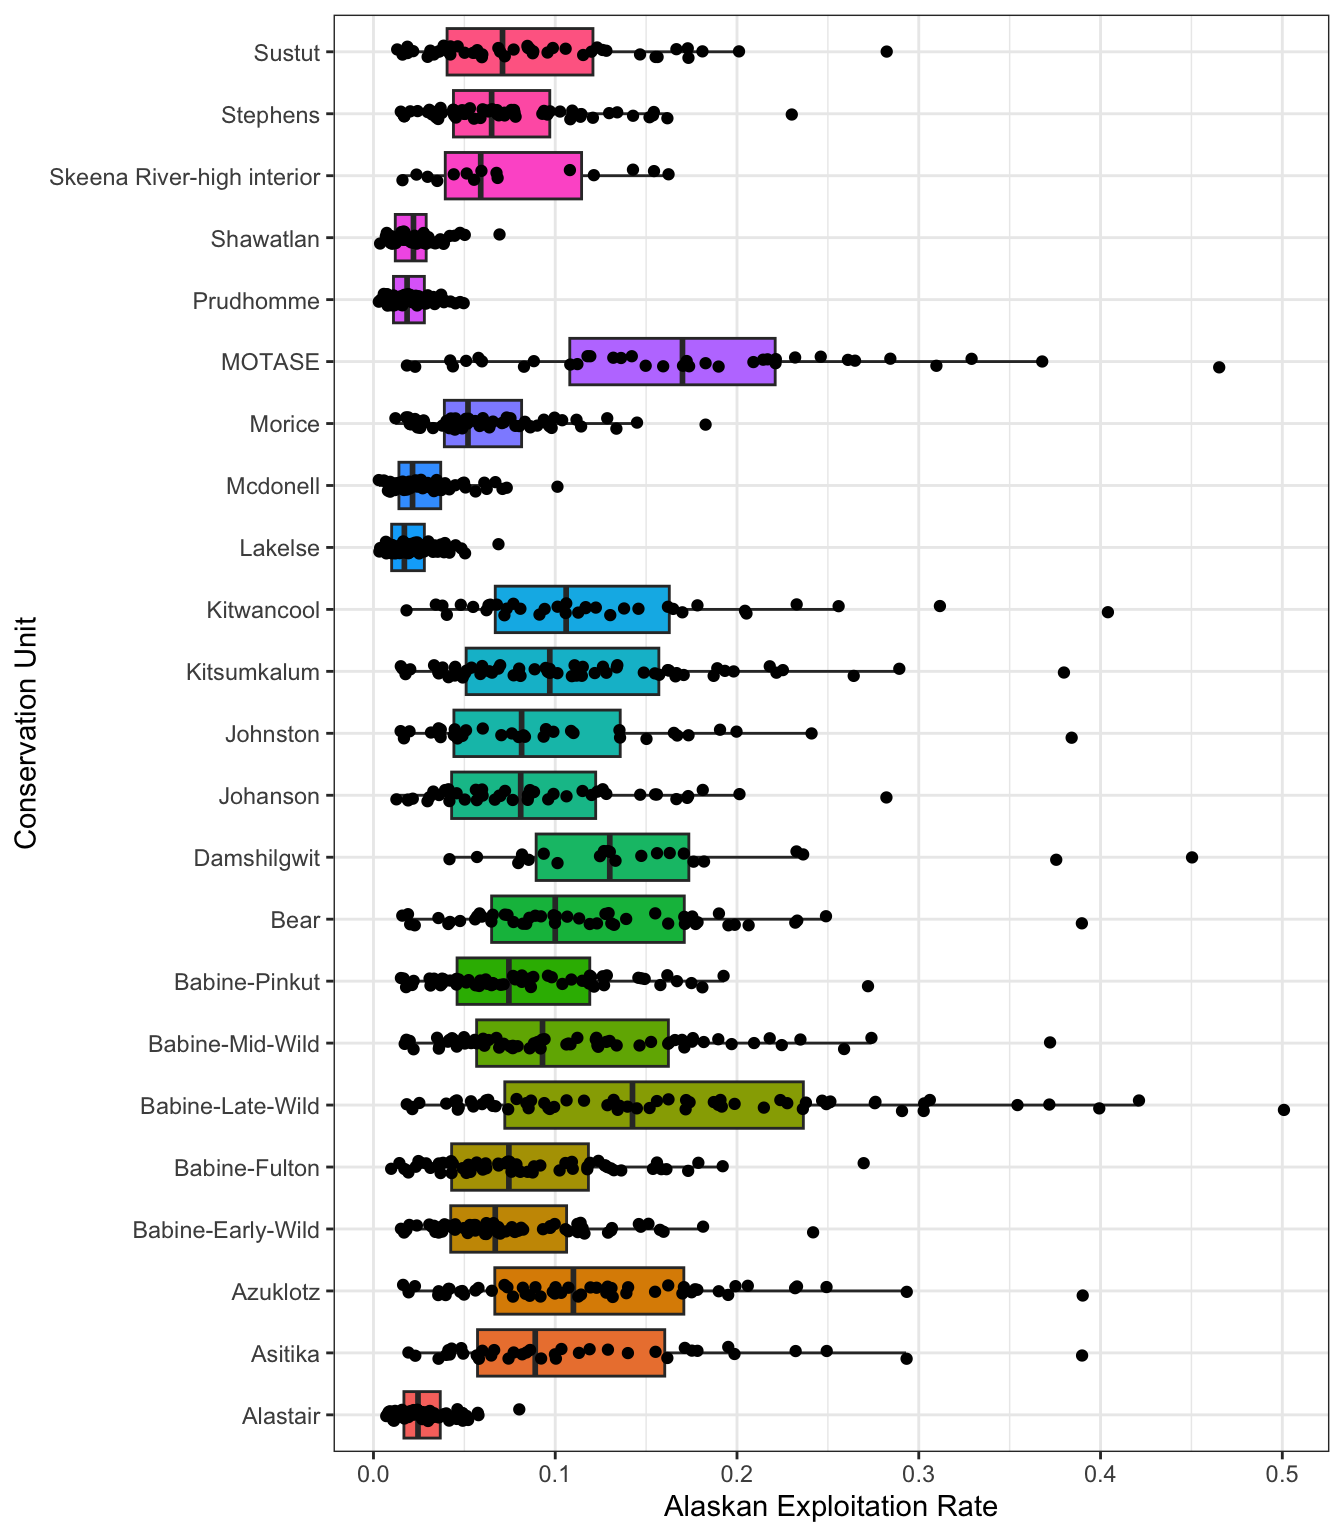
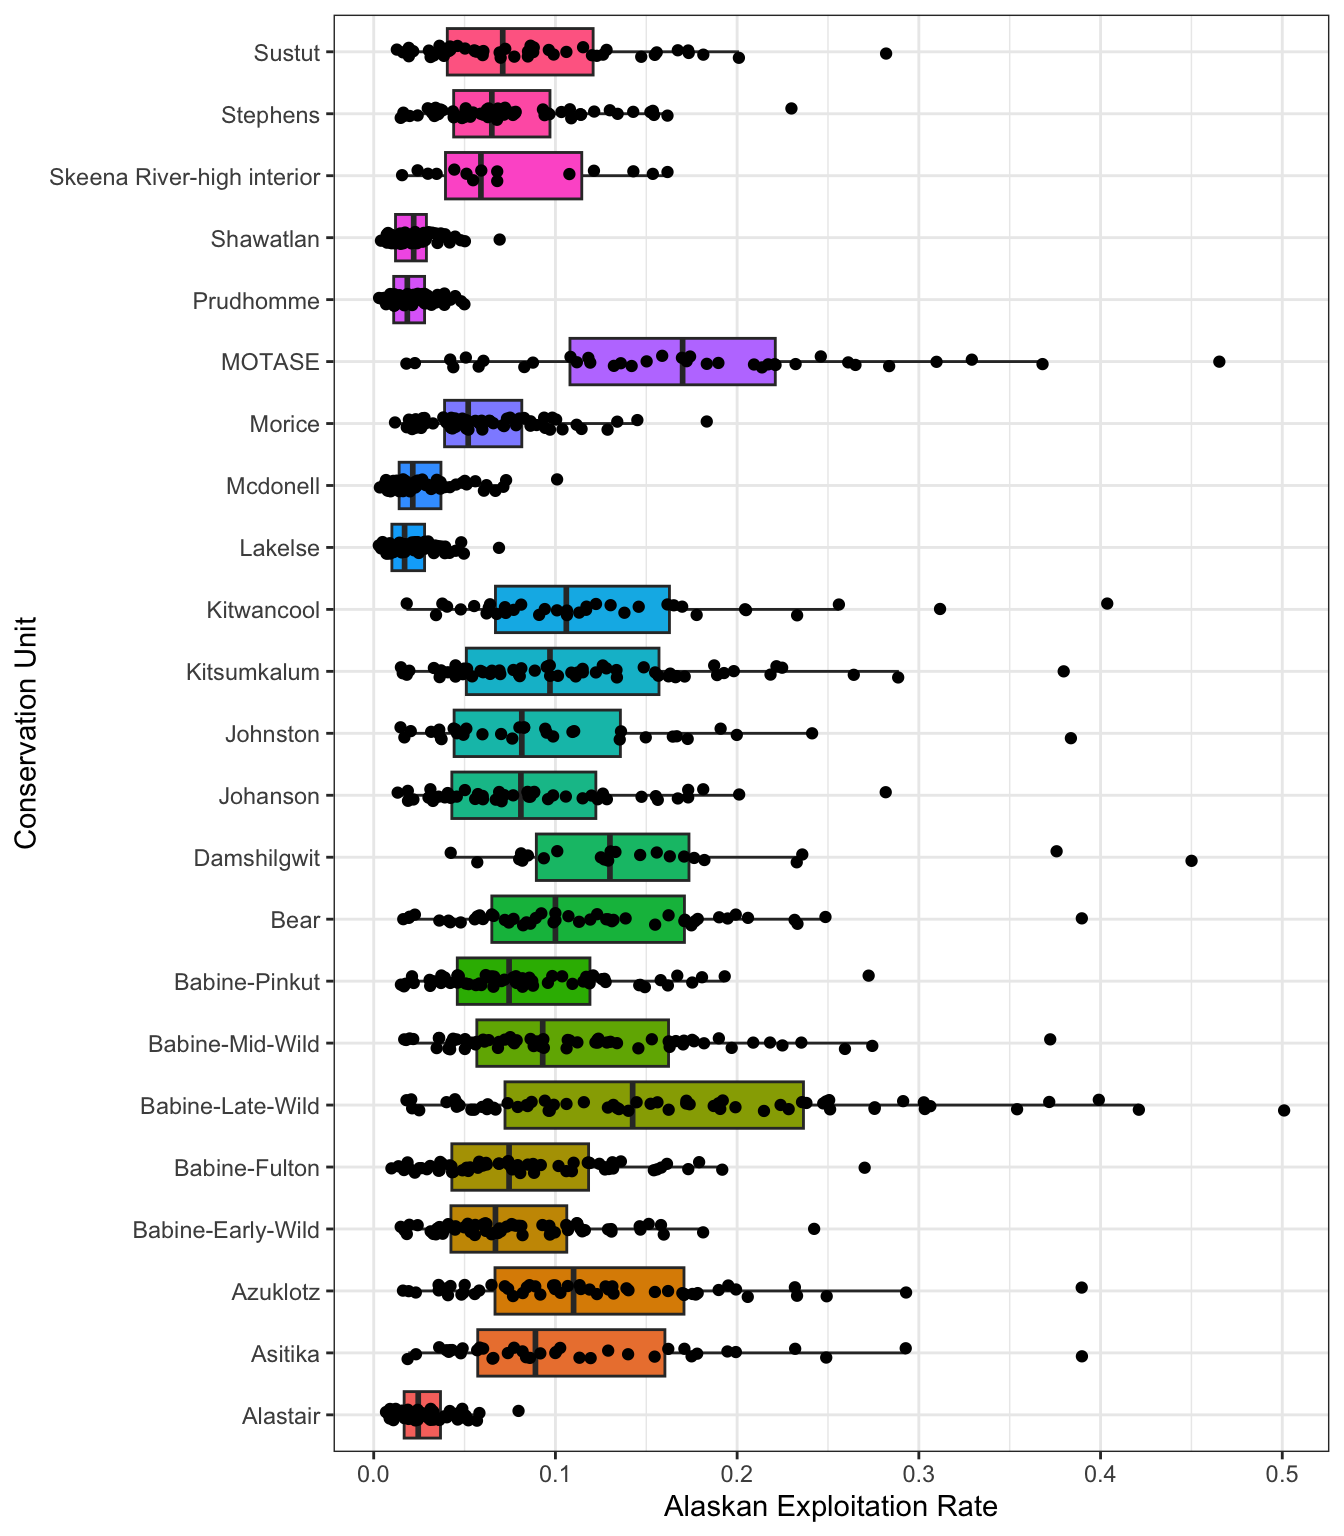
add last TBR figures

diff --git a/docs/SEAK-summary.html b/docs/SEAK-summary.html
@@ -130,10 +130,7 @@ ul.task-list li input[type="checkbox"] {
   <li><a href="#chum" id="toc-chum" class="nav-link" data-scroll-target="#chum">Chum</a></li>
   <li><a href="#pink" id="toc-pink" class="nav-link" data-scroll-target="#pink">Pink</a></li>
   <li><a href="#transboundary" id="toc-transboundary" class="nav-link" data-scroll-target="#transboundary">Transboundary</a></li>
-  <li><a href="#steelhead" id="toc-steelhead" class="nav-link" data-scroll-target="#steelhead">Steelhead</a>
-  <ul class="collapse">
-  <li><a href="#appendix-1-pacific-salmon-commission-chinook-technical-committee-mortality-distribution-tables" id="toc-appendix-1-pacific-salmon-commission-chinook-technical-committee-mortality-distribution-tables" class="nav-link" data-scroll-target="#appendix-1-pacific-salmon-commission-chinook-technical-committee-mortality-distribution-tables">Appendix 1: Pacific Salmon Commission Chinook Technical Committee Mortality Distribution Tables</a></li>
-  </ul></li>
+  <li><a href="#steelhead" id="toc-steelhead" class="nav-link" data-scroll-target="#steelhead">Steelhead</a></li>
   </ul>
 </nav>
     </div>
@@ -978,13 +975,13 @@ Figure&nbsp;55: US catch, effort, and CPUE for Alsek River Coho, Pink, and Chum 
 </div>
 <div class="cell">
 <div class="cell-output-display">
-<div id="fig-total-er-cn" class="quarto-float quarto-figure quarto-figure-center anchored">
+<div id="fig-stikine-sx" class="quarto-float quarto-figure quarto-figure-center anchored">
 <figure class="quarto-float quarto-float-fig figure">
-<div aria-describedby="fig-total-er-cn-caption-0ceaefa1-69ba-4598-a22c-09a6ac19f8ca">
-<img src="SEAK-summary_files/figure-html/fig-total-er-cn-1.png" class="img-fluid figure-img" width="672">
+<div aria-describedby="fig-stikine-sx-caption-0ceaefa1-69ba-4598-a22c-09a6ac19f8ca">
+<img src="SEAK-summary_files/figure-html/fig-stikine-sx-1.png" class="img-fluid figure-img" width="672">
 </div>
-<figcaption class="quarto-float-caption-bottom quarto-float-caption quarto-float-fig" id="fig-total-er-cn-caption-0ceaefa1-69ba-4598-a22c-09a6ac19f8ca">
-Figure&nbsp;56: Canadian and US total exploitation rate for Taku and Stikine Chinook salmon, 1979-2019
+<figcaption class="quarto-float-caption-bottom quarto-float-caption quarto-float-fig" id="fig-stikine-sx-caption-0ceaefa1-69ba-4598-a22c-09a6ac19f8ca">
+Figure&nbsp;56: Stikine River Sockeye salmon Canadian harvest, US harvest, and escapement (top panel), Canadian vs US harvest (middle panel), and Canadian and US percent of total harvest (bottom panel), 1979-2023.
 </figcaption>
 </figure>
 </div>
@@ -992,13 +989,13 @@ Figure&nbsp;56: Canadian and US total exploitation rate for Taku and Stikine Chi
 </div>
 <div class="cell">
 <div class="cell-output-display">
-<div id="fig-stikine-sx" class="quarto-float quarto-figure quarto-figure-center anchored">
+<div id="fig-total-er-cn" class="quarto-float quarto-figure quarto-figure-center anchored">
 <figure class="quarto-float quarto-float-fig figure">
-<div aria-describedby="fig-stikine-sx-caption-0ceaefa1-69ba-4598-a22c-09a6ac19f8ca">
-<img src="SEAK-summary_files/figure-html/fig-stikine-sx-1.png" class="img-fluid figure-img" width="672">
+<div aria-describedby="fig-total-er-cn-caption-0ceaefa1-69ba-4598-a22c-09a6ac19f8ca">
+<img src="SEAK-summary_files/figure-html/fig-total-er-cn-1.png" class="img-fluid figure-img" width="672">
 </div>
-<figcaption class="quarto-float-caption-bottom quarto-float-caption quarto-float-fig" id="fig-stikine-sx-caption-0ceaefa1-69ba-4598-a22c-09a6ac19f8ca">
-Figure&nbsp;57: Stikine River Sockeye salmon Canadian harvest, US harvest, and escapement (top panel), Canadian vs US harvest (middle panel), and Canadian and US percent of total harvest (bottom panel), 1979-2023.
+<figcaption class="quarto-float-caption-bottom quarto-float-caption quarto-float-fig" id="fig-total-er-cn-caption-0ceaefa1-69ba-4598-a22c-09a6ac19f8ca">
+Figure&nbsp;57: Canadian and US total exploitation rate for Taku and Stikine Chinook salmon, 1979-2019
 </figcaption>
 </figure>
 </div>
@@ -1007,11 +1004,9 @@ Figure&nbsp;57: Stikine River Sockeye salmon Canadian harvest, US harvest, and e
 </section>
 <section id="steelhead" class="level1">
 <h1>Steelhead</h1>
-<section id="appendix-1-pacific-salmon-commission-chinook-technical-committee-mortality-distribution-tables" class="level2">
-<h2 class="anchored" data-anchor-id="appendix-1-pacific-salmon-commission-chinook-technical-committee-mortality-distribution-tables">Appendix 1: Pacific Salmon Commission Chinook Technical Committee Mortality Distribution Tables</h2>
+<p>To be added. ## Appendix 1: Pacific Salmon Commission Chinook Technical Committee Mortality Distribution Tables</p>
 
 
-</section>
 </section>
 
 </main> <!-- /main -->